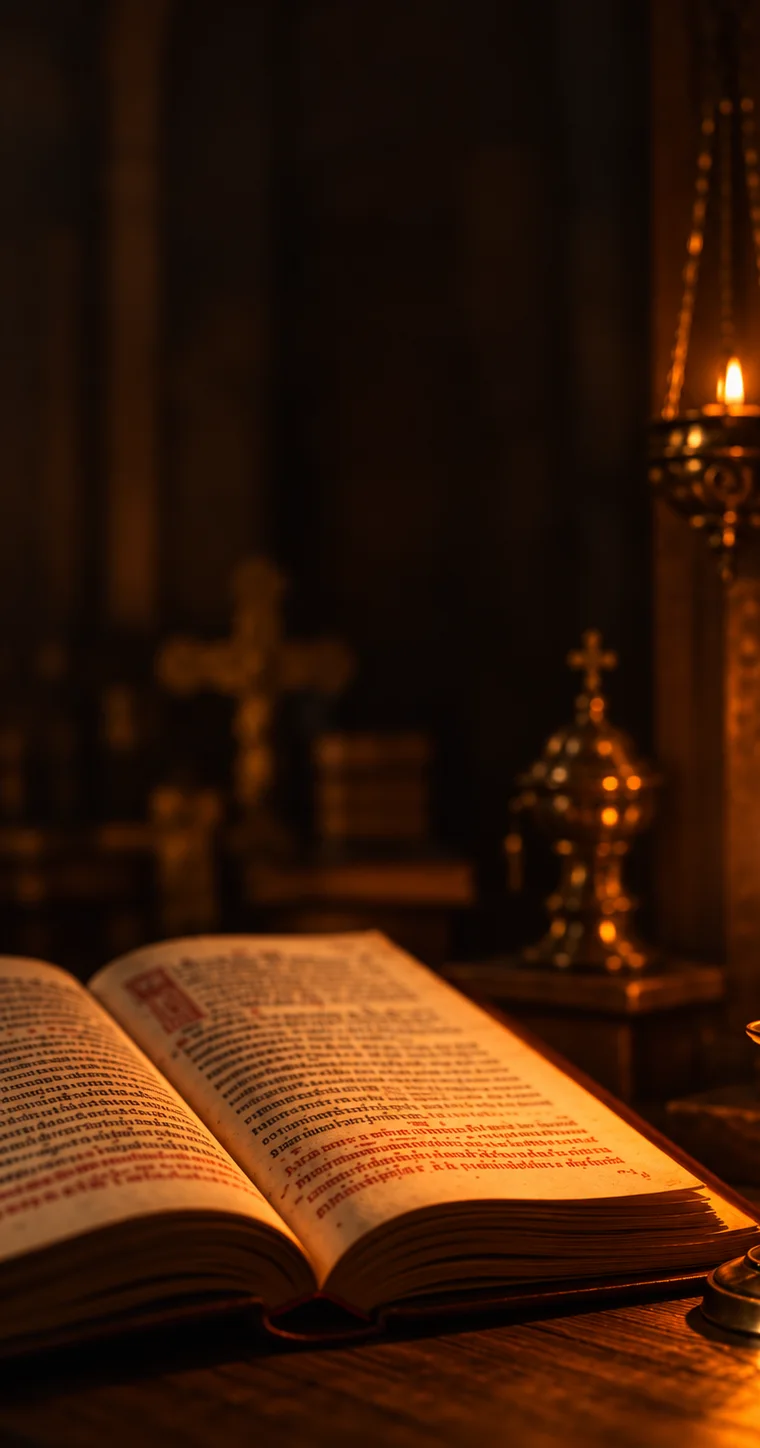
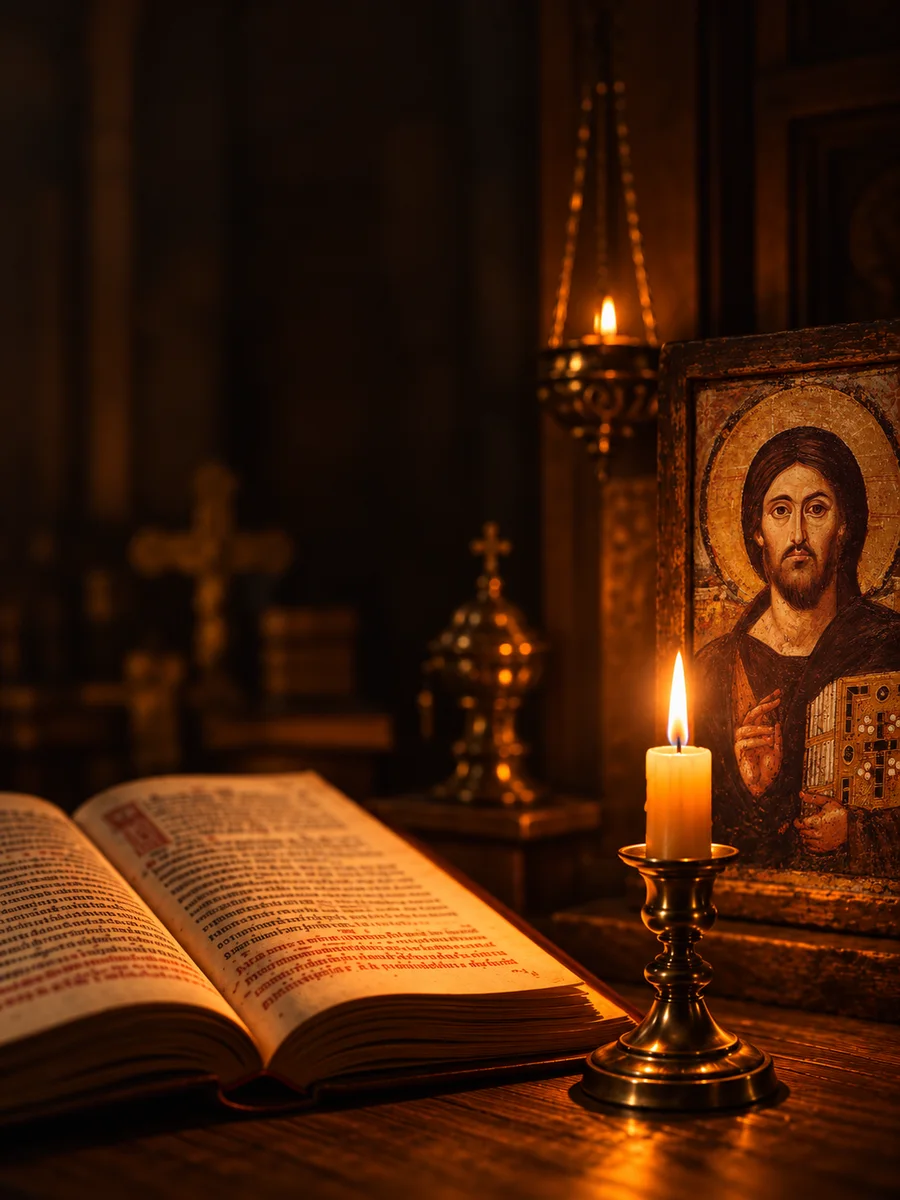
Etmaal mobiel: diensttekst bij "Over deze dienst", volledig gebedenboek-beeld, terugknop
- "Over deze dienst" toont ook de tekst van de dienst uit de PDF, zoals het dienstvenster op desktop; het uitlezen
  van de PDF staat nu in components/dienstPdf.ts en wordt door desktop en mobiel gedeeld
- Psalmen: het aangeleverde gebedenboek-beeld volledig (met kaars en icoon)
- Terugknop in de dienst- en psalmenweergave lag onder het tekstvlak en reageerde niet

diff --git a/src/components/UrenCyclus.tsx b/src/components/UrenCyclus.tsx
@@ -1,6 +1,7 @@
 import { useEffect, useState } from 'react';
 import { ChevronLeft, ChevronRight } from 'lucide-react';
 import Modal from './Modal';
+import { leesPdfTekst, pdfTekstUitCache, type PdfLine } from './dienstPdf';
 import { vergrendelScroll } from '../lib/scrollLock';
 import { OPEN_DIENST_EVENT } from '../lib/events';
 import { CycleTransition, LiturgicalPopup, TimeSanctificationTimeline } from './CycleSections';
@@ -17,32 +18,12 @@ import { WEEKDAGEN, addDays, formatDag } from '../lib/kalender';
 import Verdieping from './Verdieping';
 import { PSALMEN, laadPsalmTeksten, type PsalmTeksten } from '../lib/psalmen';
 
-// De PDF-lezer (±420 KB) wordt pas geladen als iemand een dienst of psalm opent, niet bij het openen van de site.
-let pdfjsLaden: Promise<typeof import('pdfjs-dist')> | null = null;
-function laadPdfjs() {
-  pdfjsLaden ??= import('pdfjs-dist')
-    .then((pdfjsLib) => {
-      pdfjsLib.GlobalWorkerOptions.workerSrc = new URL('pdfjs-dist/build/pdf.worker.min.mjs', import.meta.url).toString();
-      return pdfjsLib;
-    })
-    .catch((fout) => {
-      pdfjsLaden = null; // bij een netwerkfout de volgende keer opnieuw proberen
-      throw fout;
-    });
-  return pdfjsLaden;
-}
-
 type ModalState = {
   serviceIndex: number;
   selectedPsalm?: PsalmMapping;
 };
 
-type PdfLine = {
-  x: number;
-  text: string;
-};
 
-const pdfTextCache = new Map<string, Array<Array<PdfLine>>>();
 
 const CONTENT = 'mx-auto w-full max-w-[1500px] px-4 sm:px-8 lg:px-12';
 
@@ -88,67 +69,22 @@ export default function UrenCyclus() {
 
   // PDF-tekst: uit de cache, of het geladen resultaat zolang het bij de huidige url hoort; anders nog aan het laden.
   const pdfUrl = open !== null ? currentPdfUrl : '';
-  const cachedPages = pdfUrl ? pdfTextCache.get(pdfUrl) : undefined;
+  const cachedPages = pdfUrl ? pdfTekstUitCache(pdfUrl) : undefined;
   const pdfHuidig = pdf && pdf.url === pdfUrl ? pdf : null;
   const pdfPages = cachedPages ?? pdfHuidig?.pages ?? [];
   const pdfStatus = !pdfUrl ? 'idle' : cachedPages ? 'done' : (pdfHuidig?.status ?? 'loading');
 
   useEffect(() => {
-    if (!pdfUrl || pdfTextCache.has(pdfUrl)) return;
+    if (!pdfUrl || pdfTekstUitCache(pdfUrl)) return;
     let active = true;
 
-    const parsePdf = async () => {
-      try {
-        const pdfjsKlaar = laadPdfjs(); // tegelijk met het PDF-bestand ophalen
-        pdfjsKlaar.catch(() => {}); // een fout komt hieronder via Promise.all binnen
-        const response = await fetch(pdfUrl);
-        if (!response.ok) throw new Error(`PDF is niet beschikbaar (${response.status})`);
-
-        const [buffer, pdfjsLib] = await Promise.all([response.arrayBuffer(), pdfjsKlaar]);
-        const pdf = await pdfjsLib.getDocument({ data: buffer, verbosity: 0 }).promise;
-        const pages: Array<Array<PdfLine>> = [];
-
-        for (let pageIndex = 1; pageIndex <= pdf.numPages; pageIndex += 1) {
-          const page = await pdf.getPage(pageIndex);
-          const textContent = await page.getTextContent();
-          const rows = new Map<number, Array<PdfLine>>();
-
-          for (const item of textContent.items) {
-            if ('str' in item && typeof item.str === 'string') {
-              const text = item.str.trim();
-              if (!text) continue;
-              const yKey = Math.round(Number(item.transform?.[5] ?? 0));
-              const row = rows.get(yKey) ?? [];
-              row.push({ x: Number(item.transform?.[4] ?? 0), text });
-              rows.set(yKey, row);
-            }
-          }
-
-          const pageLines = Array.from(rows.entries())
-            .sort((a, b) => b[0] - a[0])
-            .map(([, items]) => ({
-              x: Math.min(...items.map((entry) => entry.x)),
-              text: items
-                .sort((a, b) => a.x - b.x)
-                .map((entry) => entry.text)
-                .join(' '),
-            }))
-            .filter((line) => line.text.length > 0);
-
-          pages.push(pageLines);
-        }
-
-        if (!active) return;
-        pdfTextCache.set(pdfUrl, pages);
-        setPdf({ url: pdfUrl, pages, status: 'done' });
-      } catch (error) {
+    leesPdfTekst(pdfUrl)
+      .then((pages) => active && setPdf({ url: pdfUrl, pages, status: 'done' }))
+      .catch((error) => {
         if (!active) return;
         console.error('PDF parsing failed', error);
         setPdf({ url: pdfUrl, pages: [], status: 'error' });
-      }
-    };
-
-    void parsePdf();
+      });
 
     return () => {
       active = false;

diff --git a/src/components/etmaal-mobiel.css b/src/components/etmaal-mobiel.css
@@ -26,7 +26,7 @@
 /* 2–4: schermvullend, maar de onderbalk blijft zichtbaar (zoals de mock-up) */
 .em-laag { z-index: 85; bottom: calc(58px + env(safe-area-inset-bottom)); }
 .em-dienst, .em-psalmen { --am-ivoor: #f6ead2; background: #140a05; color: var(--am-ivoor); }
-.em-dienst .am-kop, .em-psalmen .am-kop { position: absolute; top: 0; left: 0; right: 0; }
+.em-dienst .am-kop, .em-psalmen .am-kop { position: absolute; top: 0; left: 0; right: 0; z-index: 5; }
 .em-dienst .am-merk, .em-psalmen .am-merk { font-size: 12px; }
 .em-dienst-beeld { position: relative; flex: none; display: flex; align-items: flex-end; min-height: min(118vw, 500px); overflow: hidden; }
 .em-dienst-beeld img { position: absolute; inset: 0; width: 100%; height: 100%; object-fit: cover; object-position: 50% 30%; }
@@ -51,8 +51,8 @@
 .am-tabel th { font-family: var(--font-titel); font-size: 12px; font-weight: 600; letter-spacing: .08em; text-transform: uppercase; color: var(--goud-pijl); }
 
 /* 4. Psalmen */
-.em-boek { position: absolute; left: 0; right: 0; bottom: 0; width: 100%; height: 58%; object-fit: cover; object-position: 40% 70%; }
-.em-psalmen:before { content: ""; position: absolute; left: 0; right: 0; bottom: 0; height: 58%; z-index: 1; background: linear-gradient(#140a05, rgba(20, 10, 5, .2) 35%, rgba(20, 10, 5, .1)); pointer-events: none; }
+.em-boek { position: absolute; left: 0; right: 0; bottom: 0; width: 100%; height: 62%; object-fit: cover; object-position: 50% 80%; }
+.em-psalmen:before { content: ""; position: absolute; left: 0; right: 0; bottom: 0; height: 62%; z-index: 1; background: linear-gradient(#140a05, rgba(20, 10, 5, .2) 35%, rgba(20, 10, 5, .1)); pointer-events: none; }
 .em-psalmen-vlak { position: relative; z-index: 2; padding: 74px 14px 28px; }
 .em-psalm-lijst { display: grid; gap: 10px; margin: 18px 0 0; padding: 0; list-style: none; }
 #top#top#top#top#top#top#top#top .em-psalm { display: flex; align-items: center; gap: 10px; min-height: 74px; padding: 10px 10px 10px 22px; border: 1px solid rgba(201, 162, 98, .55); border-radius: 4px; background: rgba(28, 15, 8, .82); color: var(--am-ivoor, #f6ead2) !important; text-align: left; text-decoration: none; }
@@ -68,3 +68,9 @@
 #top#top#top#top#top#top#top#top#top#top#top .em-lees .am-lees-titel { color: var(--inkt) !important; }
 .am-lees-ondertitel { margin: 4px 0 0; font-family: var(--font-lees); font-size: 19px; text-align: center; color: var(--gedempt); }
 html.lees-nacht #top#top#top#top#top#top#top#top#top#top#top .em-lees .am-lees-titel { color: #e9dcc0 !important; }
+
+/* De diensttekst (DienstTekst.tsx) in de leesweergave */
+#top#top#top#top#top#top#top#top#top .em-dienst-pdf .etmaal-pdf p { margin: 0 !important; font-family: var(--font-lees); font-size: 17px; line-height: 1.55; color: var(--inkt); }
+#top#top#top#top#top#top#top#top#top .em-dienst-pdf .etmaal-pdf p.etmaal-pdf-alinea { margin-top: 12px !important; }
+.em-dienst-pdf .etmaal-pdf-pagina + .etmaal-pdf-pagina { margin-top: 12px; }
+html.lees-nacht #top#top#top#top#top#top#top#top#top .em-dienst-pdf .etmaal-pdf p { color: #e9dcc0; }

diff --git a/src/components/dienstPdf.ts b/src/components/dienstPdf.ts
@@ -1,0 +1,74 @@
+// De diensttekst uit de PDF van een dienst (lib/etmaal.ts, public/data/pdfs): regels met hun inspringing, per pagina.
+// Gedeeld door het dienstvenster op desktop (UrenCyclus.tsx) en "Over deze dienst" op mobiel (EtmaalMobiel.tsx).
+
+// De PDF-lezer (±420 KB) wordt pas geladen als iemand een dienst of psalm opent, niet bij het openen van de site.
+let pdfjsLaden: Promise<typeof import('pdfjs-dist')> | null = null;
+function laadPdfjs() {
+  pdfjsLaden ??= import('pdfjs-dist')
+    .then((pdfjsLib) => {
+      pdfjsLib.GlobalWorkerOptions.workerSrc = new URL('pdfjs-dist/build/pdf.worker.min.mjs', import.meta.url).toString();
+      return pdfjsLib;
+    })
+    .catch((fout) => {
+      pdfjsLaden = null; // bij een netwerkfout de volgende keer opnieuw proberen
+      throw fout;
+    });
+  return pdfjsLaden;
+}
+
+export type PdfLine = {
+  x: number;
+  text: string;
+};
+
+const pdfTextCache = new Map<string, Array<Array<PdfLine>>>();
+
+/** Al uitgelezen tekst van deze PDF, of undefined. */
+export const pdfTekstUitCache = (url: string) => pdfTextCache.get(url);
+
+/** Leest de tekst van een PDF (één keer per url; daarna uit de cache). */
+export async function leesPdfTekst(pdfUrl: string): Promise<Array<Array<PdfLine>>> {
+  const bekend = pdfTextCache.get(pdfUrl);
+  if (bekend) return bekend;
+  const pdfjsKlaar = laadPdfjs(); // tegelijk met het PDF-bestand ophalen
+  pdfjsKlaar.catch(() => {}); // een fout komt hieronder via Promise.all binnen
+  const response = await fetch(pdfUrl);
+  if (!response.ok) throw new Error(`PDF is niet beschikbaar (${response.status})`);
+
+  const [buffer, pdfjsLib] = await Promise.all([response.arrayBuffer(), pdfjsKlaar]);
+  const pdf = await pdfjsLib.getDocument({ data: buffer, verbosity: 0 }).promise;
+  const pages: Array<Array<PdfLine>> = [];
+
+  for (let pageIndex = 1; pageIndex <= pdf.numPages; pageIndex += 1) {
+    const page = await pdf.getPage(pageIndex);
+    const textContent = await page.getTextContent();
+    const rows = new Map<number, Array<PdfLine>>();
+
+    for (const item of textContent.items) {
+      if ('str' in item && typeof item.str === 'string') {
+        const text = item.str.trim();
+        if (!text) continue;
+        const yKey = Math.round(Number(item.transform?.[5] ?? 0));
+        const row = rows.get(yKey) ?? [];
+        row.push({ x: Number(item.transform?.[4] ?? 0), text });
+        rows.set(yKey, row);
+      }
+    }
+
+    const pageLines = Array.from(rows.entries())
+      .sort((a, b) => b[0] - a[0])
+      .map(([, items]) => ({
+        x: Math.min(...items.map((entry) => entry.x)),
+        text: items
+          .sort((a, b) => a.x - b.x)
+          .map((entry) => entry.text)
+          .join(' '),
+      }))
+      .filter((line) => line.text.length > 0);
+
+    pages.push(pageLines);
+  }
+
+  pdfTextCache.set(pdfUrl, pages);
+  return pages;
+}

diff --git a/src/components/DienstTekst.tsx b/src/components/DienstTekst.tsx
@@ -1,0 +1,57 @@
+import { useEffect, useState } from 'react';
+import type { ServiceMapping } from '../lib/etmaal';
+import { leesPdfTekst, pdfTekstUitCache, type PdfLine } from './dienstPdf';
+
+// De diensttekst uit de PDF van een dienst, opgemaakt zoals in het dienstvenster op desktop (UrenCyclus.tsx): regels met
+// hun inspringing, nieuwe alinea na een korte regel die met een leesteken eindigt; het kernvers bovenaan valt weg omdat
+// het al apart staat.
+export default function DienstTekst({ dienst }: { dienst: ServiceMapping }) {
+  const url = dienst.pdf;
+  const [geladen, setGeladen] = useState<{ url: string; pages: PdfLine[][] | null } | null>(null);
+  const pages = pdfTekstUitCache(url) ?? (geladen?.url === url ? geladen.pages : undefined);
+  useEffect(() => {
+    if (pdfTekstUitCache(url)) return;
+    let actief = true;
+    leesPdfTekst(url)
+      .then((p) => actief && setGeladen({ url, pages: p }))
+      .catch(() => actief && setGeladen({ url, pages: null }));
+    return () => {
+      actief = false;
+    };
+  }, [url]);
+
+  if (pages === undefined) return <p className="etmaal-pdf-melding">De tekst wordt geladen…</p>;
+  if (pages === null)
+    return (
+      <p className="etmaal-pdf-melding">
+        De tekst kon niet worden geladen.{' '}
+        <a href={url} target="_blank" rel="noreferrer" className="underline">
+          Open de PDF
+        </a>
+      </p>
+    );
+  return (
+    <div className="etmaal-pdf">
+      {pages.map((paginaRegels, pageIndex) => {
+        const kernversRegels = 1 + dienst.kernvers.verses.length;
+        const lines = pageIndex === 0 && paginaRegels[0]?.text.startsWith('Psalm Kernvers') ? paginaRegels.slice(kernversRegels) : paginaRegels;
+        if (lines.length === 0) return null;
+        const minX = Math.min(...lines.map((line) => line.x));
+        const langste = Math.max(...lines.map((line) => line.text.length));
+        return (
+          <div key={`${url}-${pageIndex}`} className="etmaal-pdf-pagina">
+            {lines.map((line, lineIndex) => {
+              const vorige = lines[lineIndex - 1];
+              const nieuweAlinea = !!vorige && vorige.text.length < langste * 0.7 && /[.!?:”"’)]$/.test(vorige.text);
+              return (
+                <p key={lineIndex} className={nieuweAlinea ? 'etmaal-pdf-alinea' : undefined} style={{ paddingLeft: `${Math.min(48, Math.max(0, (line.x - minX) / 2))}px` }}>
+                  {line.text}
+                </p>
+              );
+            })}
+          </div>
+        );
+      })}
+    </div>
+  );
+}

diff --git a/src/components/EtmaalMobiel.tsx b/src/components/EtmaalMobiel.tsx
@@ -7,6 +7,7 @@ import { OPEN_DIENST_EVENT } from '../lib/events';
 import { gaNaar } from '../lib/navigatie';
 import { Kop, Laag, LeesWeergave, PopupTekst, Sierlijn } from './MobielLaag';
 import Psalterlezing from './Psalterlezing';
+import DienstTekst from './DienstTekst';
 import { SIERKRUIS } from './symbolen';
 import './etmaal-mobiel.css';
 
@@ -17,7 +18,7 @@ import './etmaal-mobiel.css';
 //   #etmaal/<dienst>/psalmen   4. de psalmen van de dienst, met een link naar het Psalter
 //   #etmaal/lees/<onderwerp>   een verdieping (ETMAAL_INFO)
 // Inhoud alleen uit de site: lib/etmaal.ts (diensten, tijden, hoofdgedachtenis, kernvers, psalmen) en
-// lib/cyclusTeksten.ts (ETMAAL_INFO). Geen gebedsteksten van de diensten. Beelden: de aangeleverde kapellen, het
+// lib/cyclusTeksten.ts (ETMAAL_INFO); bij "Over deze dienst" ook de diensttekst uit de PDF, zoals op desktop. Beelden: de aangeleverde kapellen, het
 // klooster en het gebedenboek (public/images/etmaal/mobiel), alleen bijgesneden zodat er geen figuren in beeld staan.
 
 const BEELD = '/images/etmaal/mobiel';
@@ -169,6 +170,11 @@ function Over({ d }: { d: ServiceMapping }) {
         <h2>Psalmen van deze dienst</h2>
         <p>{d.psalms.map((p) => p.title).join(', ')}</p>
       </section>
+      {/* De dienst zelf, zoals in het dienstvenster op desktop (de PDF van de dienst) */}
+      <section className="em-dienst-pdf">
+        <h2>De dienst</h2>
+        <DienstTekst dienst={d} />
+      </section>
     </LeesWeergave>
   );
 }
@@ -179,7 +185,7 @@ function Psalmen({ d }: { d: ServiceMapping }) {
   const kathisma = d.title === 'Metten' ? 'metten' : d.title === 'Vespers' ? 'vespers' : null;
   return (
     <Laag className="em-laag em-psalmen" label={`${naamVan(d)}: psalmen`}>
-      <img className="em-boek" src={`${BEELD}/gebedenboek.webp`} alt="" width={760} height={1448} decoding="async" />
+      <img className="em-boek" src={`${BEELD}/gebedenboek.webp`} alt="" width={900} height={1200} decoding="async" />
       <Kop terug={`#etmaal/${slugVan(d)}`} merk />
       <div className="em-psalmen-vlak">
         <h1 className="em-titel" tabIndex={-1}>{naamVan(d)}</h1>
